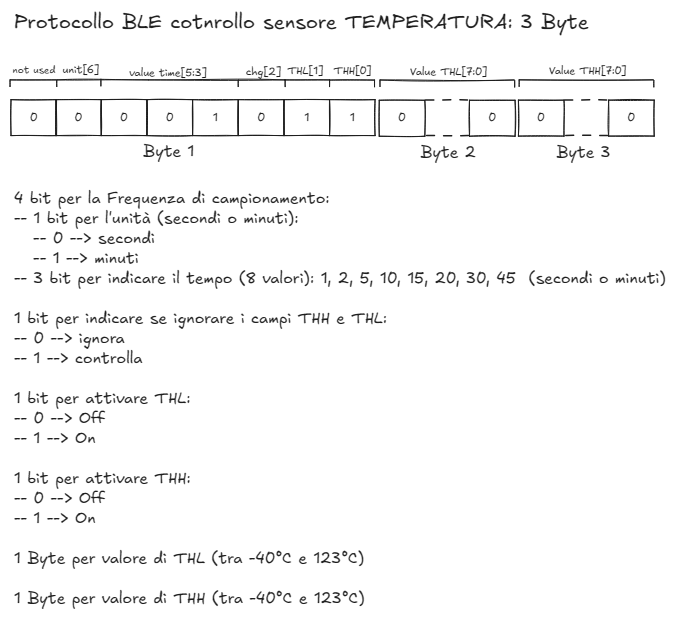
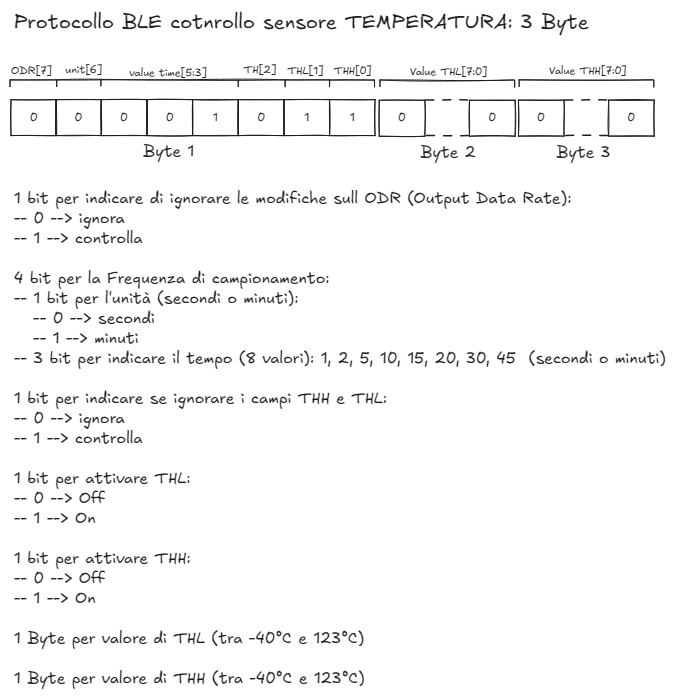
Implementazione protocollo di comunicazione

diff --git a/STM32_WPAN/App/custom_app.c b/STM32_WPAN/App/custom_app.c
@@ -101,6 +101,9 @@ static void Custom_Acc_Send_Notification(void);
 /* USER CODE BEGIN PFP */
 static void Custom_App_AccRead();
 static void Custom_App_TempRead();
+
+static void Custom_App_TempControl(uint8_t *data , uint8_t size);
+static uint32_t get_timeout_millis_temp(uint8_t unit , uint8_t value);
 /* USER CODE END PFP */
 
 /* Functions Definition ------------------------------------------------------*/
@@ -200,7 +203,7 @@ void Custom_STM_App_Notification(Custom_STM_App_Notification_evt_t *pNotificatio
 
     case CUSTOM_STM_CTRL_TEMP_WRITE_NO_RESP_EVT:
       /* USER CODE BEGIN CUSTOM_STM_CTRL_TEMP_WRITE_NO_RESP_EVT */
-
+      Custom_App_TempControl(pNotification->DataTransfered.pPayload , pNotification->DataTransfered.Length);
       /* USER CODE END CUSTOM_STM_CTRL_TEMP_WRITE_NO_RESP_EVT */
       break;
 
@@ -313,6 +316,76 @@ static void Custom_App_TempRead(){
     HW_TS_Start(Custom_App_Context.hw_ts_id_timer_temp, CUSTOM_APP_HW_TS_WAIT_MILLIS(Custom_App_Context.hw_ts_timeout_temp));
   }
 }
+
+static void Custom_App_TempControl(uint8_t *data , uint8_t size){
+  if(data == NULL || size != 3){
+    return;
+  }
+  uint8_t cmd = data[0];
+  int8_t thl = data[1];
+  int8_t thh = data[2];
+
+  if(cmd & 0x80){ // Change ODR
+    Custom_App_Context.hw_ts_timeout_temp = get_timeout_millis_temp( (cmd >> 6) & 0x01 , (cmd >> 3) & 0x07);
+  }
+  if(cmd & 0x04){ // Change Threshold
+    if(cmd & 0x02){
+      STTS22H_SetTempLLimit(&Custom_App_Context.stts22_handler, thl);
+    } else {
+      STTS22H_DeleteTempLLimit(&Custom_App_Context.stts22_handler);
+    }
+
+    if(cmd & 0x01){
+      STTS22H_SetTempHLimit(&Custom_App_Context.stts22_handler, thh);
+    } else {
+      STTS22H_DeleteTempHLimit(&Custom_App_Context.stts22_handler);
+    }
+  }
+}
+
+static uint32_t get_timeout_millis_temp(uint8_t unit , uint8_t value){
+  uint32_t m_seconds = 1000;
+  switch (value) {
+    case 1:
+      m_seconds *= 2;
+      break;
+    case 2:
+      m_seconds *= 5;
+      break;
+    case 3:
+      m_seconds *= 10;
+      break;
+    case 4:
+      m_seconds *= 15;
+      break;
+    case 5:
+      m_seconds *= 20;
+      break;
+    case 6:
+      m_seconds *= 30;
+      break;
+    case 7:
+      m_seconds *= 45;
+      break;
+    default:
+      m_seconds *= 1;
+      break;
+  }
+  return unit == 0x00 ? m_seconds : (m_seconds * 60);
+}
+
+void HAL_GPIO_EXTI_Callback(uint16_t GPIO_Pin){
+  if(GPIO_Pin == STTS22H_ALERT_Pin){
+    uint8_t data = 0;
+    STTS22H_ReadEvent(&Custom_App_Context.stts22_handler, &data);
+    if (data == STTS22H_EVENT_OVER_THH){
+      // TODO
+    } else if (data == STTS22H_EVENT_UNDER_THL){
+      // TODO
+    }
+  }
+}
+
 /* USER CODE END FD */
 
 /*************************************************************

diff --git a/STM32_WPAN/App/custom_stm.c b/STM32_WPAN/App/custom_stm.c
@@ -258,7 +258,10 @@ static SVCCTL_EvtAckStatus_t Custom_STM_Event_Handler(void *Event)
           {
             return_value = SVCCTL_EvtAckFlowEnable;
             /* USER CODE BEGIN CUSTOM_STM_Service_2_Char_3_ACI_GATT_ATTRIBUTE_MODIFIED_VSEVT_CODE */
-
+            Notification.Custom_Evt_Opcode = CUSTOM_STM_CTRL_TEMP_WRITE_NO_RESP_EVT;
+            Notification.DataTransfered.Length = attribute_modified->Attr_Data_Length;
+            Notification.DataTransfered.pPayload = attribute_modified->Attr_Data;
+            Custom_STM_App_Notification(&Notification);
             /* USER CODE END CUSTOM_STM_Service_2_Char_3_ACI_GATT_ATTRIBUTE_MODIFIED_VSEVT_CODE */
           } /* if (attribute_modified->Attr_Handle == (CustomContext.CustomCtrl_TempHdle + CHARACTERISTIC_VALUE_ATTRIBUTE_OFFSET))*/
           /* USER CODE BEGIN EVT_BLUE_GATT_ATTRIBUTE_MODIFIED_END */
